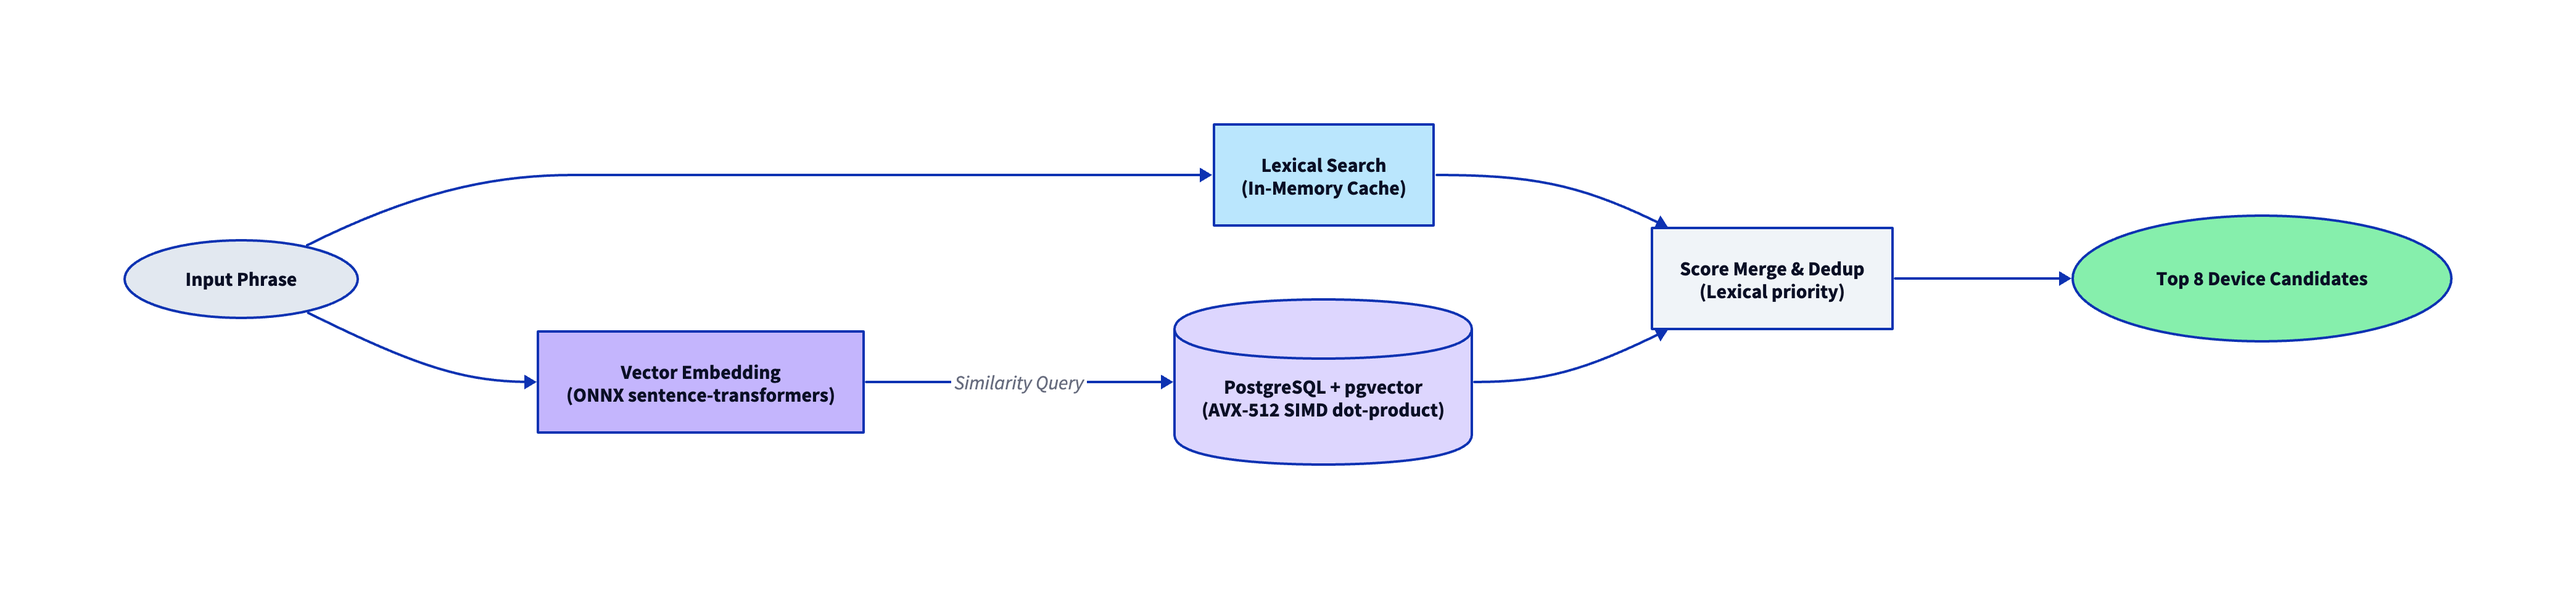
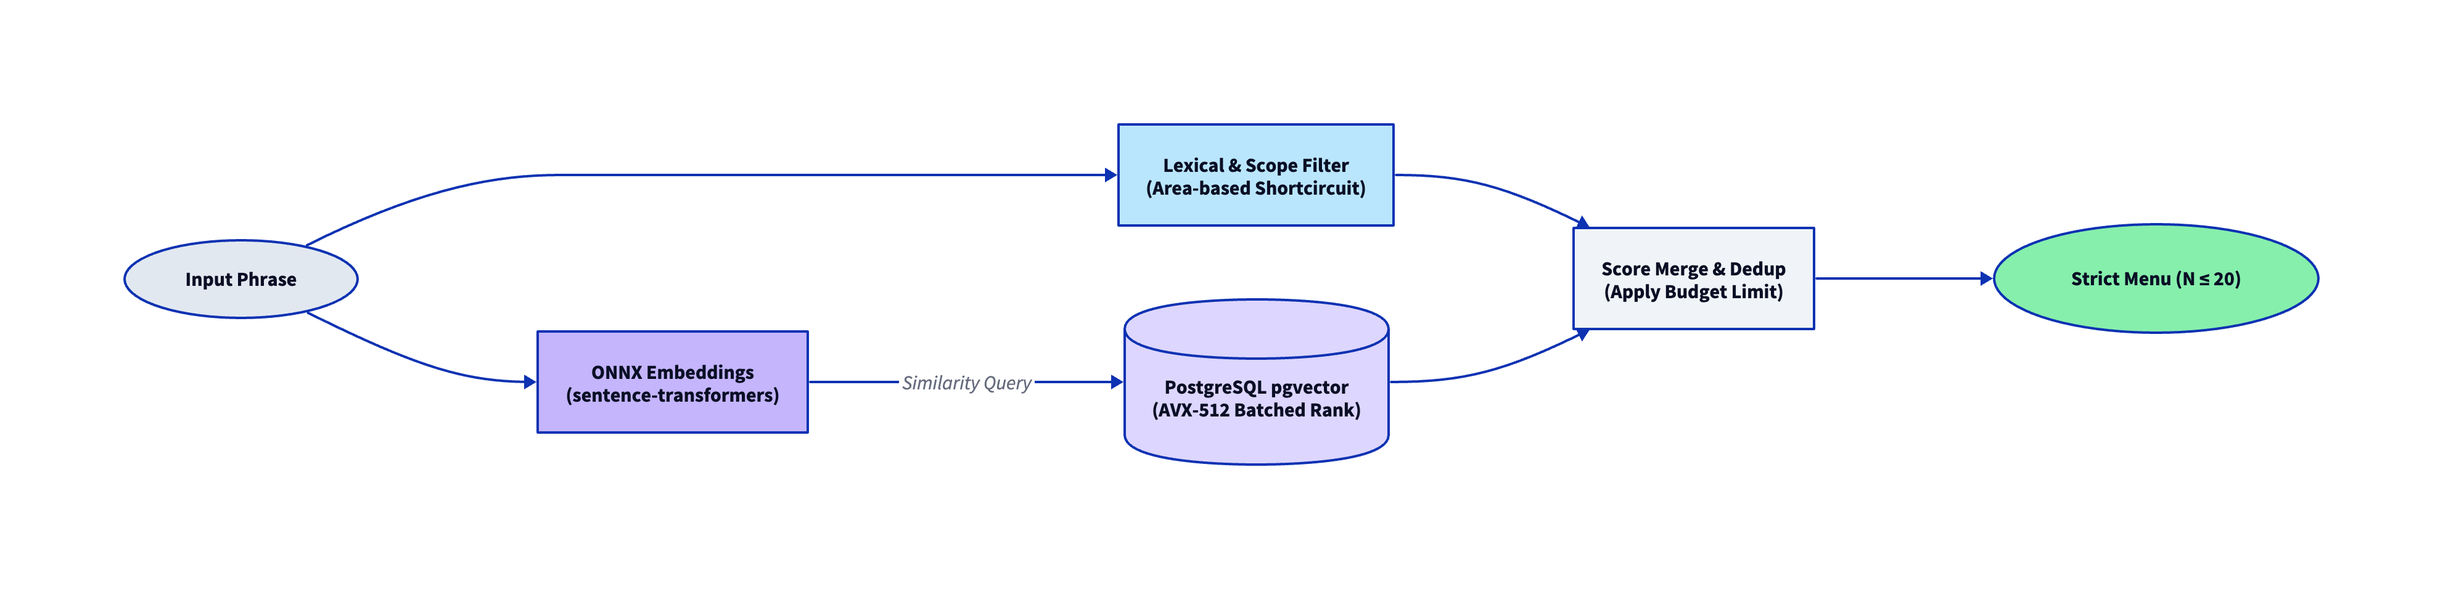
Docs: Update infrastructure diagrams and V2 latency metrics

diff --git a/README.md b/README.md
@@ -157,8 +157,8 @@ The system utilizes a custom, lightweight Python bridge to route conversational 
 ## Validation & Performance Matrix
 
 Tested end-to-end on a live local area network resolving against an `RTX 3060` intent server over Websockets:
-- **Fast-Reject/Clarification Latency**: `~120ms - 230ms` (Sub-second fallback safety queries before TTS kicks in)
-- **Generative Execution Latency**: `~570ms` (Full pipeline: Speech parsing -> ONNX LLM CUDA validation -> JSON plan synthesis -> HA Service Execution)
+- **Fast-Reject/Clarification Latency**: `~80ms - 150ms` (Sub-second fallback safety queries before TTS kicks in)
+- **Generative Execution Latency (V2)**: `~280ms - 320ms` (Full pipeline with Native Scopes & `N=20` Context Limits: Speech parsing -> ONNX LLM CUDA Typed Validation -> Strict JSON plan synthesis -> HA Service Execution)
 
 ### Operational Validations
 - **Exact Action**: Deterministically matches specific hardware IDs successfully.
